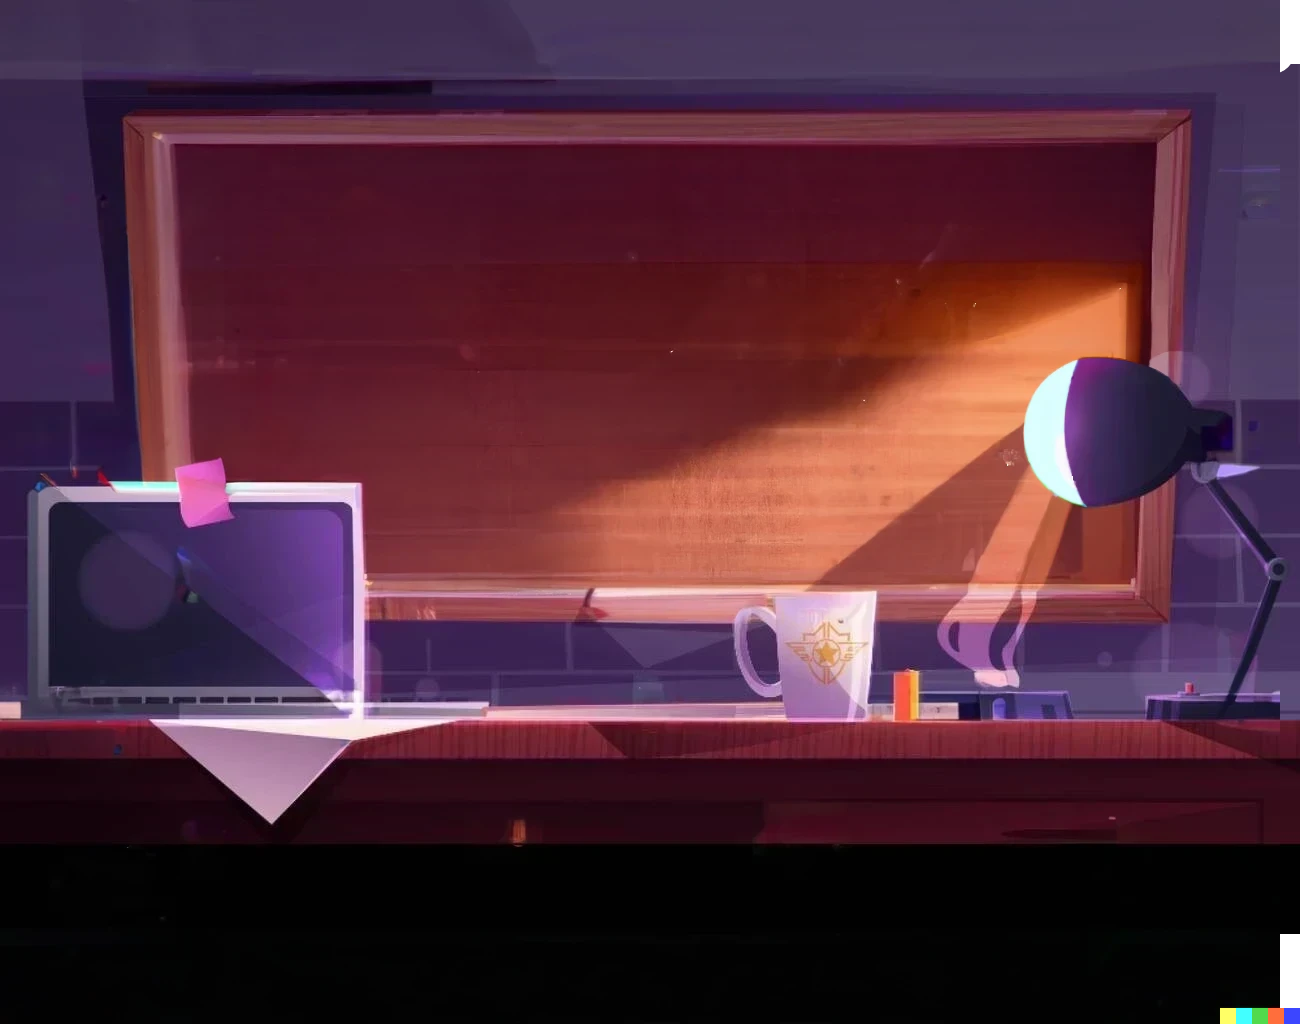
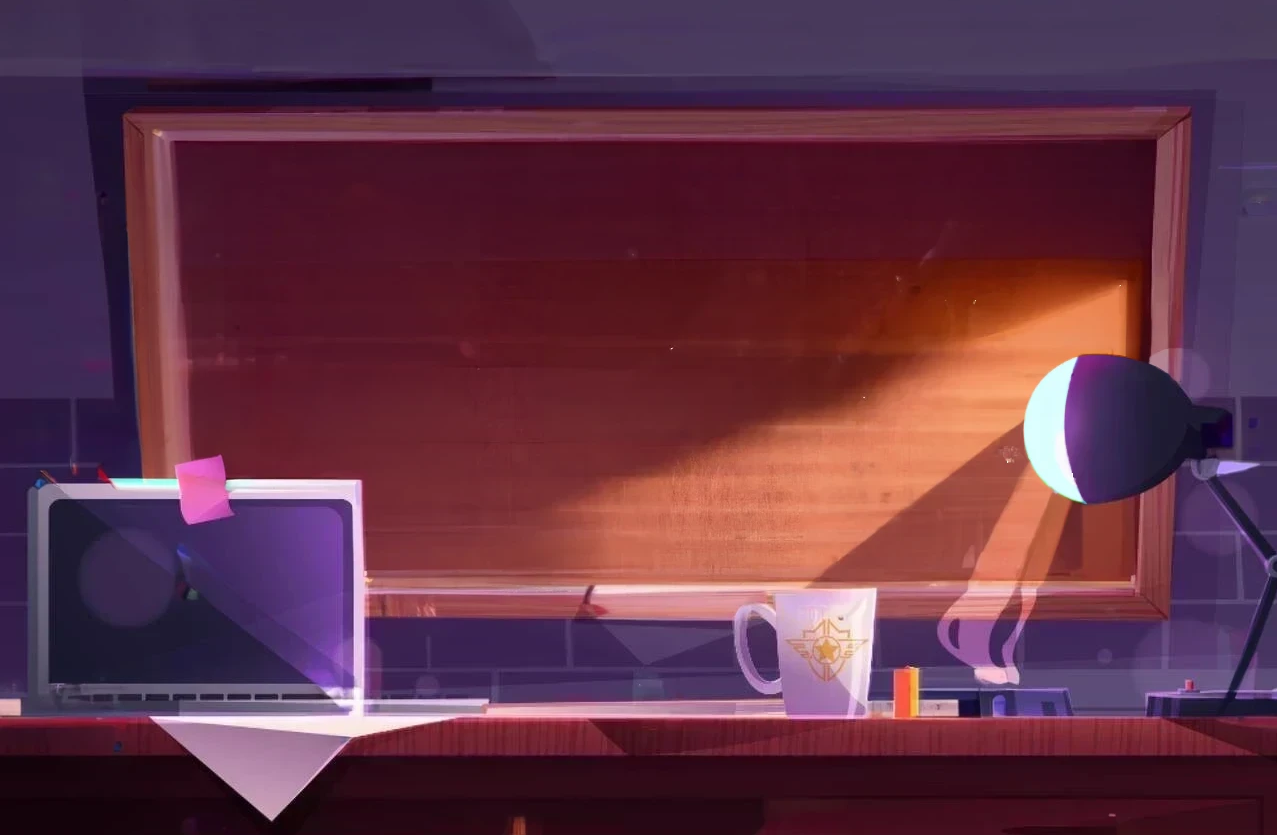
Position image main screnn empty board

diff --git a/src/screens/MainScreenEmptyBoard.tsx b/src/screens/MainScreenEmptyBoard.tsx
@@ -1,13 +1,12 @@
 import React, { useState } from "react";
-import { View, Text, ScrollView, ImageBackground, Image, TouchableOpacity } from "react-native";
+import { View, Text, ScrollView, ImageBackground, Image, TouchableOpacity, StyleSheet } from "react-native";
 import { useTailwind } from "tailwind-rn";
 import PrimaryButton from "components/PrimaryButton";
-import ClickableElement from "components/ClickableElement";
 import MainTitle from "components/MainTitle";
 import { useAuth } from "services/context/AuthContext";
 import { useUser } from "services/context/UserContext";
-import LogoutButton from "components/LogoutButton";
 import { useNavigation } from "@react-navigation/native";
+import { Dimensions } from 'react-native';
 
 const MainScreenEmptyBoard = ({ }) => {
     const tw = useTailwind();
@@ -15,17 +14,24 @@ const MainScreenEmptyBoard = ({ }) => {
     const { user } = useUser();
     const navigation = useNavigation();
 
+    const windowWidth = Dimensions.get('window').width;
+    const windowHeight = Dimensions.get('window').height;
     return (
-        <ImageBackground source={require('images/board_empty.png')} style={tw('flex-1 relative')}>
-
+        <ImageBackground source={require('images/board_empty.png')} style={[tw('flex-1 relative'), StyleSheet.absoluteFill]}>
             <View style={tw("flex-1 items-center")}>
                 <ScrollView style={tw('w-full')}>
                     {!authState.isAuthenticated && <MainTitle title={"Bienvenue sur HostoMytho"} />}
+                </ScrollView>
+
+                <View style={StyleSheet.absoluteFill}>
                     {authState.isAuthenticated &&
                         <Text
                             style={[
-                                tw("mb-8 font-bold text-4xl md:text-6xl md:mt-7 text-center text-orange-400 dark:text-white font-SpringSnowstorm"),
+                                tw("mb-8 font-bold text-4xl md:text-6xl text-center text-orange-400 dark:text-white font-SpringSnowstorm"),
                                 {
+                                    position: 'absolute',
+                                    top: '82%',
+                                    left: '28%', // Ajustez cette valeur pour décaler le texte vers la gauche
                                     textShadowColor: '#000',
                                     textShadowOffset: { width: 0, height: 0 },
                                     textShadowRadius: 5
@@ -35,51 +41,50 @@ const MainScreenEmptyBoard = ({ }) => {
                             {"HostoMytho"}
                         </Text>
                     }
-                    <View style={{ minWidth: 100, alignSelf: 'center' }}>
-                        <View>
-                            {/* <PrimaryButton title="Plausibilité des textes" destination="PlausibilityGame" /> */}
-                            <TouchableOpacity onPress={() => navigation.navigate("Main")} style={tw('absolute top-10 left-40')}>
-                                <Image source={require('images/post_it.png')} style={tw('w-10 h-10')} />
-                            </TouchableOpacity>
 
-                            <TouchableOpacity onPress={() => navigation.navigate("PlausibilityGame")} style={tw('absolute top-30 left-10')}>
-                                <Image source={require('images/multi_post_it.png')} style={tw('w-10 h-10')} />
-                            </TouchableOpacity>
+                    <View style={StyleSheet.absoluteFill}>
+                        <TouchableOpacity onPress={() => navigation.navigate("Main")} style={{ position: 'absolute', top: '11%', left: '15%' }}>
+                            <Image source={require('images/post_it.png')} style={{ width: windowWidth * 0.1, aspectRatio: 1 }} />
+                        </TouchableOpacity>
 
-                            <TouchableOpacity onPress={() => navigation.navigate("HypothesisGame")} style={tw('absolute left-90')}>
-                                <Image source={require('images/paper.png')} style={tw('w-10 h-10')} />
-                            </TouchableOpacity>
+                        <TouchableOpacity onPress={() => navigation.navigate("PlausibilityGame")} style={{ position: 'absolute', top: '30%', left: '17%' }}>
+                            <Image source={require('images/multi_post_it.png')} style={{ width: windowWidth * 0.1, aspectRatio: 1 }} />
+                        </TouchableOpacity>
 
-                            <TouchableOpacity onPress={() => navigation.navigate("TypeSentenceGame")} style={tw('absolute top-10 right-40')}>
-                                <Image source={require('images/paper_2.png')} style={tw('w-10 h-10')} />
-                            </TouchableOpacity>
+                        <TouchableOpacity onPress={() => navigation.navigate("HypothesisGame")} style={{ position: 'absolute', top: '20%', left: '70%' }}>
+                            <Image source={require('images/paper.png')} style={{ width: windowWidth * 0.1, aspectRatio: 1 }} />
+                        </TouchableOpacity>
 
-                            <TouchableOpacity onPress={() => navigation.navigate("TemporalEntity")} style={tw('absolute bottom-40 right-80')}>
-                                <Image source={require('images/post_it_orange.png')} style={tw('w-10 h-10')} />
-                            </TouchableOpacity>
+                        <TouchableOpacity onPress={() => navigation.navigate("TypeSentenceGame")} style={{ position: 'absolute', top: '40%', left: '40%' }}>
+                            <Image source={require('images/paper_2.png')} style={{ width: windowWidth * 0.1, aspectRatio: 1 }} />
+                        </TouchableOpacity>
 
-                            <TouchableOpacity onPress={() => navigation.navigate("TemporalLinkGame")} style={tw('absolute bottom-10 left-40')}>
-                                <Image source={require('images/polaroid_picture.png')} style={tw('w-10 h-10')} />
-                            </TouchableOpacity>
+                        <TouchableOpacity onPress={() => navigation.navigate("TemporalEntity")} style={{ position: 'absolute', top: '58%', right: '24%' }}>
+                            <Image source={require('images/post_it_green.png')} style={{ width: windowWidth * 0.08, aspectRatio: 1 }} />
+                        </TouchableOpacity>
 
-                            <TouchableOpacity onPress={() => navigation.navigate("Main")} style={tw('absolute top-60 left-80')}>
-                                <Image source={require('images/polaroid_smile.png')} style={tw('w-10 h-10')} />
-                            </TouchableOpacity>
-                        </View>
-                        {!authState.isAuthenticated &&
-                            <View>
-                                <PrimaryButton title="Connexion" destination="Login" />
-                                <PrimaryButton title="Inscription" destination="SignUpScreen" />
-                            </View>
-                        }
-                        {authState.isAuthenticated &&
-                            <View>
-                                {/* <PrimaryButton title="Profil" destination="Profile" />
-                                <PrimaryButton title="Paramètres" destination="Settings" /> */}
-                            </View>
-                        }
+                        <TouchableOpacity onPress={() => navigation.navigate("TemporalLinkGame")} style={{ position: 'absolute', top: '15%', left: '50%' }}>
+                            <Image source={require('images/polaroid_picture.png')} style={{ width: windowWidth * 0.1, aspectRatio: 1 }} />
+                        </TouchableOpacity>
+
+                        <TouchableOpacity onPress={() => navigation.navigate("Main")} style={{ position: 'absolute', top: '50%', left: '57%' }}>
+                            <Image source={require('images/polaroid_smile.png')} style={{ width: windowWidth * 0.1, aspectRatio: 1 }} />
+                        </TouchableOpacity>
                     </View>
-                </ScrollView>
+
+                </View>
+                {!authState.isAuthenticated &&
+                    <View>
+                        <PrimaryButton title="Connexion" destination="Login" />
+                        <PrimaryButton title="Inscription" destination="SignUpScreen" />
+                    </View>
+                }
+                {authState.isAuthenticated &&
+                    <View>
+                        {/* <PrimaryButton title="Profil" destination="Profile" />
+                                <PrimaryButton title="Paramètres" destination="Settings" /> */}
+                    </View>
+                }
             </View>
 
         </ImageBackground>

diff --git a/src/screens/MainScreen.tsx b/src/screens/MainScreen.tsx
@@ -27,7 +27,7 @@ const MainScreen = ({ }) => {
                         <PrimaryButton title="Spécifier le type des phrases" destination="TypeSentenceGame" />
                         <PrimaryButton title="Trouver les entités et expressions temporelles" destination="TemporalEntity" />
                         <PrimaryButton title="Tableau de bord" destination="MainBoard" />
-                        <PrimaryButton title="Tableau de bord" destination="MainEmptyBoard" />
+                        <PrimaryButton title="Tableau de bord vide" destination="MainEmptyBoard" />
                         {/* <PrimaryButton title="Spécifier les liens temporelles" destination="TemporalLinkGame" /> */}
                     </View>
                     {!authState.isAuthenticated &&

diff --git a/src/navigation/StackNavigator.tsx b/src/navigation/StackNavigator.tsx
@@ -53,6 +53,11 @@ const StackNavigator = ({ }) => {
         })}
       >
 
+        <Stack.Screen name="MainEmptyBoard"
+          component={MainScreenEmptyBoard}
+          options={({ }) => ({
+            headerShown: false
+          })} />
         <Stack.Screen name="Main"
           component={MainScreen}
           options={({ navigation }) => ({
@@ -64,11 +69,6 @@ const StackNavigator = ({ }) => {
             headerShown: false
           })} />
 
-        <Stack.Screen name="MainEmptyBoard"
-          component={MainScreenEmptyBoard}
-          options={({ }) => ({
-            headerShown: false
-          })} />
 
         <Stack.Screen name="HypothesisGame"
           component={HypothesisGameScreen} options={({ navigation }) => ({
